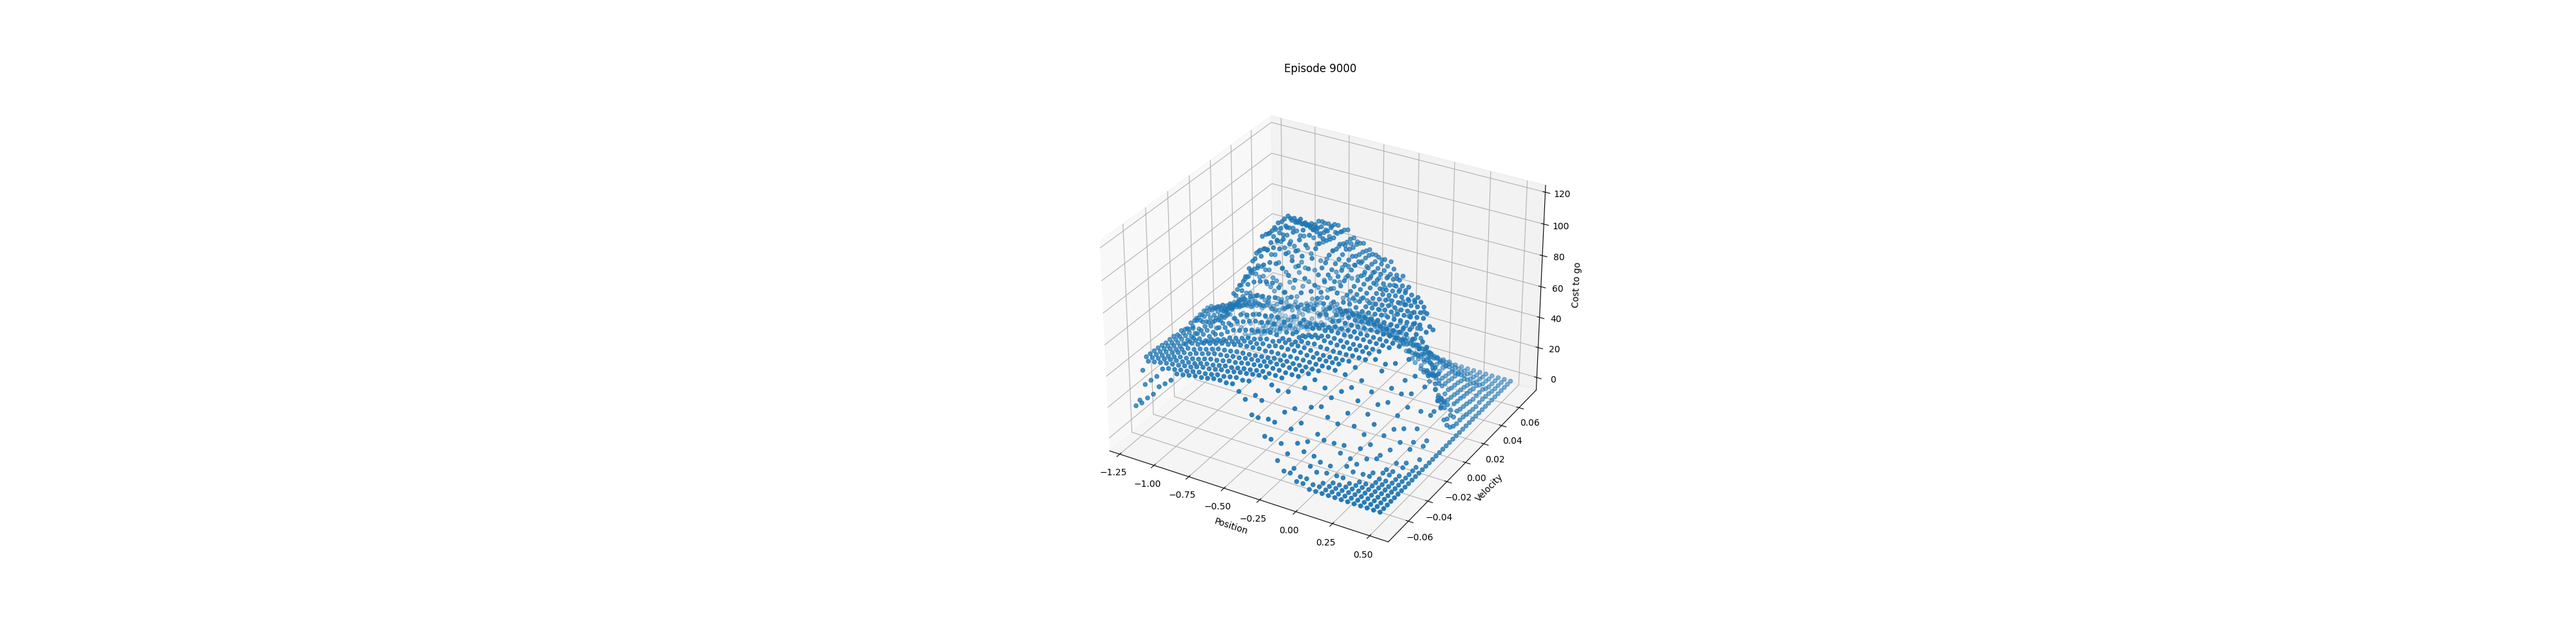
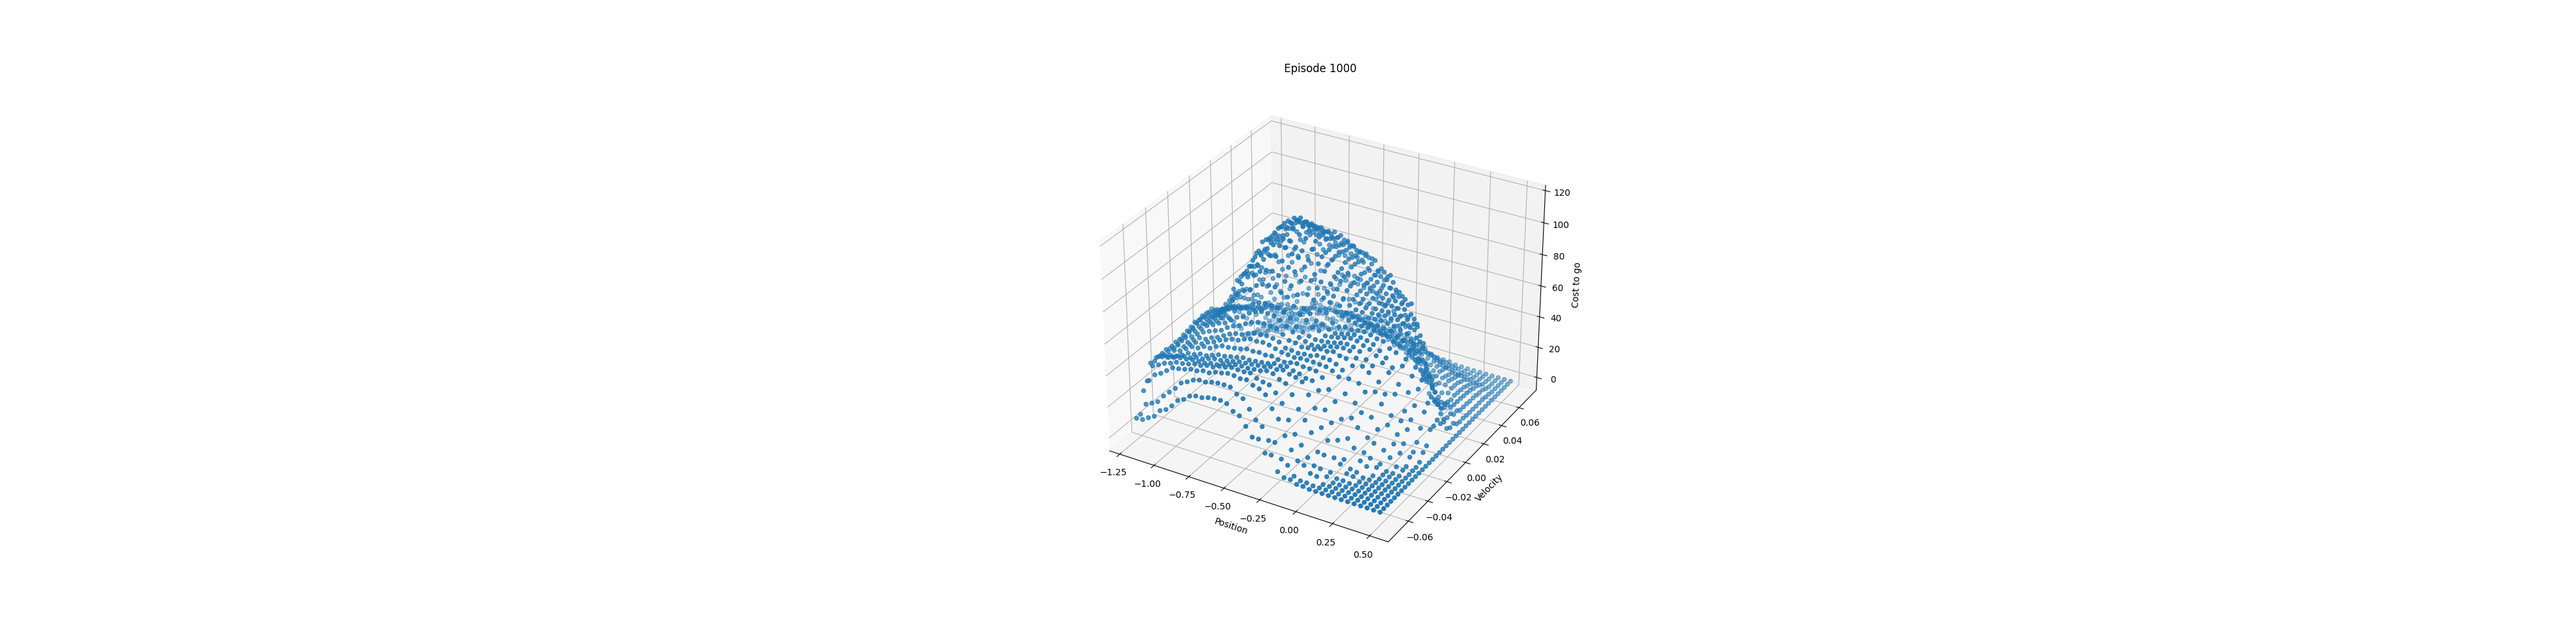
...

Changed region(s): [[0.4375, 0.341, 0.5938, 0.775]]

diff --git a/PA3/FBF.py b/PA3/FBF.py
@@ -161,19 +161,14 @@ FOURIER_BASES = 1
 
 class BasesValueFunction:
     # @order: # of bases, each function also has one more constant parameter (called bias in machine learning)
-    # @type: polynomial bases or Fourier bases
-    def __init__(self, order, type):
+    def __init__(self, order):
         self.order = order
         self.weights = np.zeros(order + 1)
 
-        # set up bases function
+        # set up Fourier bases function
         self.bases = []
-        if type == POLYNOMIAL_BASES:
-            for i in range(0, order + 1):
-                self.bases.append(lambda s, i=i: pow(s, i))
-        elif type == FOURIER_BASES:
-            for i in range(0, order + 1):
-                self.bases.append(lambda s, i=i: np.cos(i * np.pi * s))
+        for i in range(0, order + 1):
+            self.bases.append(lambda s, i=i: np.cos(i * np.pi * s))
 
     # get the value of @state
     def value(self, state):
@@ -270,140 +265,38 @@ def semi_gradient_temporal_difference(value_function, n, alpha):
         state = next_state
 
 
-# Figure 9.1, gradient Monte Carlo algorithm
-def figure_9_1(true_value):
-    episodes = int(1e5)
-    alpha = 2e-5
-
-    # we have 10 aggregations in this example, each has 100 states
-    value_function = ValueFunction(10)
-    distribution = np.zeros(N_STATES + 2)
-    for ep in tqdm(range(episodes)):
-        gradient_monte_carlo(value_function, alpha, distribution)
-
-    distribution /= np.sum(distribution)
-    state_values = [value_function.value(i) for i in STATES]
-
-    plt.figure(figsize=(10, 20))
-
-    plt.subplot(2, 1, 1)
-    plt.plot(STATES, state_values, label='Approximate MC value')
-    plt.plot(STATES, true_value[1: -1], label='True value')
-    plt.xlabel('State')
-    plt.ylabel('Value')
-    plt.legend()
-
-    plt.subplot(2, 1, 2)
-    plt.plot(STATES, distribution[1: -1], label='State distribution')
-    plt.xlabel('State')
-    plt.ylabel('Distribution')
-    plt.legend()
-
-    plt.savefig('images/figure_9_1.png')
-    plt.close()
-
-
-# semi-gradient TD on 1000-state random walk
-def figure_9_2_left(true_value):
-    episodes = int(1e5)
-    alpha = 2e-4
-    value_function = ValueFunction(10)
-    for ep in tqdm(range(episodes)):
-        semi_gradient_temporal_difference(value_function, 1, alpha)
-
-    stateValues = [value_function.value(i) for i in STATES]
-    plt.plot(STATES, stateValues, label='Approximate TD value')
-    plt.plot(STATES, true_value[1: -1], label='True value')
-    plt.xlabel('State')
-    plt.ylabel('Value')
-    plt.legend()
-
-
-# different alphas and steps for semi-gradient TD
-def figure_9_2_right(true_value):
-    # all possible steps
-    steps = np.power(2, np.arange(0, 10))
-
-    # all possible alphas
-    alphas = np.arange(0, 1.1, 0.1)
-
-    # each run has 10 episodes
-    episodes = 10
-
-    # perform 100 independent runs
-    runs = 100
-
-    # track the errors for each (step, alpha) combination
-    errors = np.zeros((len(steps), len(alphas)))
-    for run in tqdm(range(runs)):
-        for step_ind, step in zip(range(len(steps)), steps):
-            for alpha_ind, alpha in zip(range(len(alphas)), alphas):
-                # we have 20 aggregations in this example
-                value_function = ValueFunction(20)
-                for ep in range(0, episodes):
-                    semi_gradient_temporal_difference(value_function, step, alpha)
-                    # calculate the RMS error
-                    state_value = np.asarray([value_function.value(i) for i in STATES])
-                    errors[step_ind, alpha_ind] += np.sqrt(
-                        np.sum(np.power(state_value - true_value[1: -1], 2)) / N_STATES)
-    # take average
-    errors /= episodes * runs
-    # truncate the error
-    for i in range(len(steps)):
-        plt.plot(alphas, errors[i, :], label='n = ' + str(steps[i]))
-    plt.xlabel('alpha')
-    plt.ylabel('RMS error')
-    plt.ylim([0.25, 0.55])
-    plt.legend()
-
-
-def figure_9_2(true_value):
-    plt.figure(figsize=(10, 20))
-    plt.subplot(2, 1, 1)
-    figure_9_2_left(true_value)
-    plt.subplot(2, 1, 2)
-    figure_9_2_right(true_value)
-
-    plt.savefig('images/figure_9_2.png')
-    plt.close()
-
-
 # Figure 9.5, Fourier basis and polynomials
 def figure_9_5(true_value):
-    # my machine can only afford 1 run
-    runs = 1
+    runs = 5
 
-    episodes = 5000
+    episodes = 1000
 
     # # of bases
-    orders = [5, 10, 20]
-
-    alphas = [1e-4, 5e-5]
-    labels = [['polynomial basis'] * 3, ['fourier basis'] * 3]
+    orders = [3, 5, 7]
+    alpha = 0.4
 
     # track errors for each episode
-    errors = np.zeros((len(alphas), len(orders), episodes))
-    for run in range(runs):
-        for i in range(len(orders)):
-            value_functions = [BasesValueFunction(orders[i], POLYNOMIAL_BASES),
-                               BasesValueFunction(orders[i], FOURIER_BASES)]
-            for j in range(len(value_functions)):
-                for episode in tqdm(range(episodes)):
+    errors = np.zeros((len(orders), episodes))
+    with tqdm(total=runs * episodes * len(orders), ncols=100) as progress:
+        for run in range(runs):
+            for i in range(len(orders)):
+                value_function = BasesValueFunction(orders[i])
+                for episode in range(episodes):
                     # gradient Monte Carlo algorithm
-                    gradient_monte_carlo(value_functions[j], alphas[j])
+                    gradient_monte_carlo(value_function, alpha)
 
                     # get state values under current value function
-                    state_values = [value_functions[j].value(state) for state in STATES]
+                    state_values = [value_function.value(state) for state in STATES]
 
                     # get the root-mean-squared error
-                    errors[j, i, episode] += np.sqrt(np.mean(np.power(true_value[1: -1] - state_values, 2)))
+                    errors[i, episode] += np.sqrt(np.mean(np.power(true_value[1: -1] - state_values, 2)))
+                    progress.update()
 
     # average over independent runs
     errors /= runs
 
-    for i in range(len(alphas)):
-        for j in range(len(orders)):
-            plt.plot(errors[i, j, :], label='%s order = %d' % (labels[i][j], orders[j]))
+    for j in range(len(orders)):
+        plt.plot(errors[j, :], label='fourier basis order = %d' % orders[j])
     plt.xlabel('Episodes')
     # The book plots RMSVE, which is RMSE weighted by a state distribution
     plt.ylabel('RMSE')
@@ -413,66 +306,10 @@ def figure_9_5(true_value):
     plt.close()
 
 
-# Figure 9.10, it will take quite a while
-def figure_9_10(true_value):
-    # My machine can only afford one run, thus the curve isn't so smooth
-    runs = 1
-
-    # number of episodes
-    episodes = 5000
-
-    num_of_tilings = 50
-
-    # each tile will cover 200 states
-    tile_width = 200
-
-    # how to put so many tilings
-    tiling_offset = 4
-
-    labels = ['tile coding (50 tilings)', 'state aggregation (one tiling)']
-
-    # track errors for each episode
-    errors = np.zeros((len(labels), episodes))
-    for run in range(runs):
-        # initialize value functions for multiple tilings and single tiling
-        value_functions = [TilingsValueFunction(num_of_tilings, tile_width, tiling_offset),
-                           ValueFunction(N_STATES // tile_width)]
-        for i in range(len(value_functions)):
-            for episode in tqdm(range(episodes)):
-                # I use a changing alpha according to the episode instead of a small fixed alpha
-                # With a small fixed alpha, I don't think 5000 episodes is enough for so many
-                # parameters in multiple tilings.
-                # The asymptotic performance for single tiling stays unchanged under a changing alpha,
-                # however the asymptotic performance for multiple tilings improves significantly
-                alpha = 1.0 / (episode + 1)
-
-                # gradient Monte Carlo algorithm
-                gradient_monte_carlo(value_functions[i], alpha)
-
-                # get state values under current value function
-                state_values = [value_functions[i].value(state) for state in STATES]
-
-                # get the root-mean-squared error
-                errors[i][episode] += np.sqrt(np.mean(np.power(true_value[1: -1] - state_values, 2)))
-
-    # average over independent runs
-    errors /= runs
-
-    for i in range(0, len(labels)):
-        plt.plot(errors[i], label=labels[i])
-    plt.xlabel('Episodes')
-    # The book plots RMSVE, which is RMSE weighted by a state distribution
-    plt.ylabel('RMSE')
-    plt.legend()
-
-    plt.savefig('images/figure_9_10.png')
-    plt.close()
-
-
 if __name__ == '__main__':
     true_value = compute_true_value()
 
-    figure_9_1(true_value)
-    figure_9_2(true_value)
+    # figure_9_1(true_value)
+    # figure_9_2(true_value)
     figure_9_5(true_value)
-    figure_9_10(true_value)
+    # figure_9_10(true_value)

diff --git a/PA3/test.py b/PA3/test.py
@@ -272,12 +272,12 @@ def print_cost(value_function, episode, ax):
 
 # Figure 10.1, cost to go in a single run
 def figure_10_1():
-    episodes = 9000
+    episodes = 1000
     plot_episodes = [episodes - 1]
     fig = plt.figure(figsize=(40, 10))
     axes = [fig.add_subplot(1, len(plot_episodes), i + 1, projection='3d') for i in range(len(plot_episodes))]
     num_of_tilings = 8
-    alpha = 0.3
+    alpha = 0.4
     value_function = ValueFunction(alpha, num_of_tilings)
     last_ep = None
     for ep in tqdm(range(episodes), ncols=100):
@@ -290,99 +290,5 @@ def figure_10_1():
     plt.close()
 
 
-# Figure 10.2, semi-gradient Sarsa with different alphas
-def figure_10_2():
-    runs = 5
-    episodes = 500
-    num_of_tilings = 8
-    alphas = [0.1, 0.2, 0.5]
-
-    steps = np.zeros((len(alphas), episodes))
-    for run in range(runs):
-        value_functions = [ValueFunction(alpha, num_of_tilings) for alpha in alphas]
-        for index in range(len(value_functions)):
-            for episode in tqdm(range(episodes), ncols=100):
-                steps[index, episode] += semi_gradient_n_step_sarsa(value_functions[index])
-
-    steps /= runs
-
-    for i in range(0, len(alphas)):
-        plt.plot(steps[i], label='alpha = ' + str(alphas[i]) + '/' + str(num_of_tilings))
-    plt.xlabel('Episode')
-    plt.ylabel('Steps per episode')
-    plt.yscale('log')
-    plt.legend()
-
-    plt.savefig('images/figure_10_2.png')
-    plt.close()
-
-
-# Figure 10.3, one-step semi-gradient Sarsa vs multi-step semi-gradient Sarsa
-def figure_10_3():
-    runs = 5
-    episodes = 500
-    num_of_tilings = 8
-    alphas = [0.5, 0.3]
-    n_steps = [1, 8]
-
-    steps = np.zeros((len(alphas), episodes))
-    for run in range(runs):
-        value_functions = [ValueFunction(alpha, num_of_tilings) for alpha in alphas]
-        for index in range(len(value_functions)):
-            for episode in tqdm(range(episodes), ncols=100):
-                steps[index, episode] += semi_gradient_n_step_sarsa(value_functions[index], n_steps[index])
-
-    steps /= runs
-
-    for i in range(0, len(alphas)):
-        plt.plot(steps[i], label='n = %.01f' % (n_steps[i]))
-    plt.xlabel('Episode')
-    plt.ylabel('Steps per episode')
-    plt.yscale('log')
-    plt.legend()
-
-    plt.savefig('images/figure_10_3.png')
-    plt.close()
-
-
-# Figure 10.4, effect of alpha and n on multi-step semi-gradient Sarsa
-def figure_10_4():
-    alphas = np.arange(0.25, 1.75, 0.25)
-    n_steps = np.power(2, np.arange(0, 5))
-    episodes = 50
-    runs = 5
-
-    max_steps = 300
-    steps = np.zeros((len(n_steps), len(alphas)))
-    with tqdm(total=runs * len(n_steps) * len(alphas), ncols=100) as progress:
-        for run in range(runs):
-            for n_step_index, n_step in enumerate(n_steps):
-                for alpha_index, alpha in enumerate(alphas):
-                    progress.update()
-                    if (n_step == 8 and alpha > 1) or \
-                            (n_step == 16 and alpha > 0.75):
-                        # In these cases it won't converge, so ignore them
-                        steps[n_step_index, alpha_index] += max_steps * episodes
-                        continue
-                    value_function = ValueFunction(alpha)
-                    for _ in range(episodes):
-                        steps[n_step_index, alpha_index] += semi_gradient_n_step_sarsa(value_function, n_step)
-
-    # average over independent runs and episodes
-    steps /= runs * episodes
-
-    for i in range(0, len(n_steps)):
-        plt.plot(alphas, steps[i, :], label='n = ' + str(n_steps[i]))
-    plt.xlabel('alpha * number of tilings(8)')
-    plt.ylabel('Steps per episode')
-    plt.legend()
-
-    plt.savefig('images/figure_10_4.png')
-    plt.close()
-
-
 if __name__ == '__main__':
     figure_10_1()
-    # figure_10_2()
-    # figure_10_3()
-    # figure_10_4()
